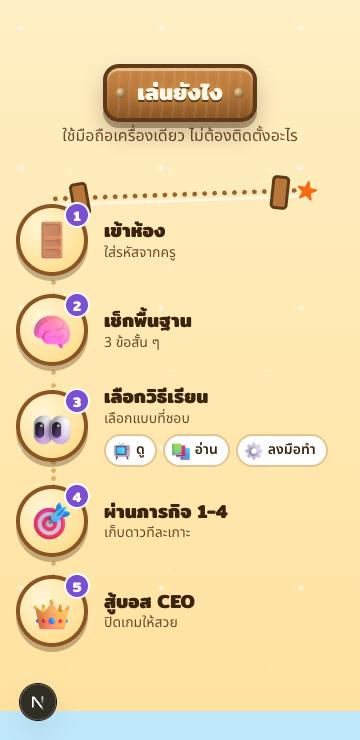
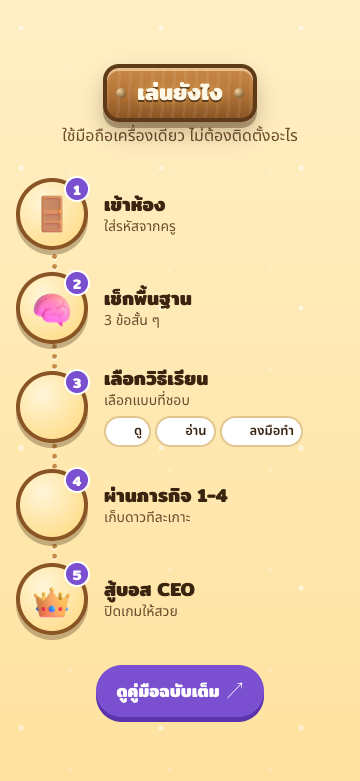
feat(landing): how-to-play path + illustrated footer

Changed region(s): [[0.0, 0.2176, 1.0, 1.0], [0.1528, 0.0622, 0.825, 0.2176]]

diff --git a/components/landing/landing.css b/components/landing/landing.css
@@ -178,17 +178,12 @@
 
 /* ---------- วิธีเล่น ---------- */
 .ld-steps { list-style: none; margin: 0; padding: 0; display: grid; gap: 18px; position: relative; }
-.ld-route-scene { height: 34px; position: relative; margin: 0 7% -8px; pointer-events: none; }
-.ld-route-bridge { position: absolute; left: 5%; right: 5%; top: 14px; height: 10px; border-top: 5px dotted #9b632d; border-bottom: 3px solid rgba(255,255,255,.55); transform: rotate(-2deg); }
-.ld-route-bridge::before, .ld-route-bridge::after { content: ''; position: absolute; top: -18px; width: 18px; height: 34px; border-radius: 5px; background: #b7773a; border: 3px solid #5e3a18; }
-.ld-route-bridge::before { left: 7%; transform: rotate(-8deg); } .ld-route-bridge::after { right: 7%; transform: rotate(8deg); }
-.ld-route-flag { position: absolute; right: 1%; top: -6px; color: #f56a12; font-size: 23px; transform: rotate(12deg); }
+.ld-steps::before { content: ''; position: absolute; z-index: 0; left: 10%; right: 10%; top: 36px; border-top: 5px dotted #c58a45; filter: drop-shadow(0 2px 0 rgba(255,255,255,.55)); }
 .ld-step { position: relative; display: flex; align-items: center; gap: 16px; }
+.ld-step-link { position: relative; z-index: 1; display: flex; flex-direction: column; align-items: center; gap: 10px; width: 100%; color: inherit; text-decoration: none; }
 .ld-step-ico { transition: transform .25s ease, filter .25s ease; }
 .ld-step:hover .ld-step-ico { transform: translateY(-5px) rotate(-4deg); filter: drop-shadow(0 8px 8px rgba(122,79,208,.25)); }
-.ld-step:not(:last-child)::after {
-  content: ""; position: absolute; left: 35px; top: 76px; bottom: -22px; border-left: 5px dotted #e0b269; z-index: 0;
-}
+.ld-step-copy { display: block; text-align: center; }
 .ld-step-ico {
   position: relative; z-index: 1; flex: none; display: grid; place-items: center; width: 72px; height: 72px; border-radius: 50%;
   background: radial-gradient(circle at 35% 30%, #fff6d8, #ffd77a); border: 4px solid var(--ld-wood-2); box-shadow: 0 5px 0 rgba(60,32,10,.3);
@@ -200,12 +195,14 @@
 }
 .ld-step h3 { font-family: var(--font-display-thai), sans-serif; font-weight: 700; font-size: 19px; line-height: 1.3; }
 .ld-step p { font-size: 14px; color: var(--ld-ink-2); line-height: 1.4; }
-.ld-chips { display: flex; flex-wrap: wrap; gap: 6px; margin-top: 6px; }
+.ld-chips { display: flex; flex-wrap: nowrap; justify-content: center; gap: 4px; margin-top: 6px; }
 .ld-chip {
-  display: inline-flex; align-items: center; gap: 4px; min-height: 28px; padding: 2px 10px 2px 6px; border-radius: 999px; white-space: nowrap;
-  font-size: 14px; font-weight: 600; background: #fff; border: 2px solid #e3c590;
+  display: inline-flex; align-items: center; gap: 3px; min-height: 28px; padding: 2px 7px 2px 5px; border-radius: 999px; white-space: nowrap;
+  font-size: 13px; font-weight: 600; background: #fff; border: 2px solid #e3c590;
 }
 .ld-chip img { width: 20px; height: 20px; }
+.ld-how-cta { display: flex; width: max-content; align-items: center; gap: 7px; margin: 30px auto 0; padding: 11px 20px; border-radius: 999px; background: var(--ld-purple); color: #fff; text-decoration: none; font-family: var(--font-display-thai), sans-serif; font-size: 17px; font-weight: 700; box-shadow: 0 5px 0 var(--ld-purple-d); transition: transform .18s ease, filter .18s ease; }
+.ld-how-cta:hover { transform: translateY(-3px); filter: brightness(1.08); }
 
 /* ---------- Phone tour ---------- */
 .ld-tour { display: grid; gap: 24px; justify-items: center; align-items: center; }
@@ -261,24 +258,19 @@
 .ld-lock img { width: 20px; height: 20px; }
 
 /* ---------- ปิดท้าย ---------- */
-.ld-final { position: relative; isolation: isolate; overflow: hidden; padding: 84px 0 40px; text-align: center; background: linear-gradient(180deg, #43b4ee 0%, #2e9cdf 62%, #1d75bd 100%); color: #fff; }
-.ld-final .ld-cloud--a { top: 8%; }
-.ld-final .ld-cloud--b { top: 28%; }
-.ld-final::after { content: ''; position: absolute; left: -5%; right: -5%; bottom: -1px; height: 80px; background: radial-gradient(80% 70px at 20% 100%, #f6e4ac 0 52%, transparent 54%), radial-gradient(80% 70px at 70% 100%, #e9c77b 0 52%, transparent 54%); z-index: -1; }
-.ld-final-islands { position: absolute; inset: auto 0 -8px; height: 112px; z-index: 0; opacity: .9; pointer-events: none; }
-.ld-final-islands span { position: absolute; bottom: 0; width: 240px; height: 72px; border-radius: 50% 50% 12% 12%; background: #398e59; box-shadow: inset 0 14px 0 #8bd27d, 0 10px 0 rgba(29,117,189,.35); }
-.ld-final-islands span::before, .ld-final-islands span::after { content: ''; position: absolute; bottom: 48px; width: 7px; height: 48px; border-radius: 8px; background: #8a5524; transform-origin: bottom; }
-.ld-final-islands span::before { left: 30%; transform: rotate(-18deg); } .ld-final-islands span::after { left: 62%; transform: rotate(18deg); }
-.ld-final-islands span:nth-child(1) { left: -7%; bottom: -42px; transform: scale(.8); }
-.ld-final-islands span:nth-child(2) { left: 50%; bottom: -70px; transform: translateX(-50%) scale(.72); }
-.ld-final-islands span:nth-child(3) { right: -7%; bottom: -42px; transform: scale(.9); }
+.ld-final { position: relative; isolation: isolate; overflow: hidden; min-height: 700px; padding: 74px 0 58px; text-align: center; background: #f8d5a0; color: #fff; }
+.ld-final-bg { position: absolute; inset: 0; z-index: -2; background: url('/landing/footer-bg.webp') center / cover no-repeat; }
+.ld-final::after { content: ''; position: absolute; inset: 0; z-index: -1; background: linear-gradient(180deg, rgba(18,53,99,.06), rgba(18,53,99,.08) 58%, rgba(73,46,27,.14)); pointer-events: none; }
 .ld-confetti { position: absolute; inset: 16% 10% auto; height: 180px; pointer-events: none; opacity: 0; }
 .ld-confetti.is-live { opacity: 1; }
 .ld-confetti i { position: absolute; left: calc(50% + (var(--i) - 7) * 4%); top: 45%; width: 9px; height: 18px; border-radius: 3px; background: hsl(calc(var(--i) * 27) 90% 60%); transform: rotate(calc(var(--i) * 31deg)); animation: ld-confetti 1.1s cubic-bezier(.2,.8,.2,1) forwards; animation-delay: calc(var(--i) * 24ms); }
 .ld-final-inner { display: flex; flex-direction: column; align-items: center; gap: 16px; }
 .ld-final-dome { width: 150px; }
-.ld-foot { position: relative; z-index: 2; margin-top: 28px; padding: 8px 14px; border-radius: 16px; background: rgba(22,102,166,.72); font-size: 14px; color: #e4f6ff; line-height: 1.6; }
+.ld-final-plaque { display: flex; flex-direction: column; align-items: center; gap: 14px; width: min(100%, 620px); padding: 25px 26px 22px; border: 5px solid #6b3d1d; border-radius: 28px; background: rgba(255,248,226,.94); box-shadow: 0 8px 0 rgba(74,40,18,.35), 0 20px 34px rgba(55,33,20,.2); color: var(--ld-ink); }
+.ld-final-plaque .ld-sign { margin-top: -48px; }
+.ld-foot { position: relative; z-index: 2; margin-top: 8px; padding: 10px 16px; border-top: 2px solid #e2bf7c; font-size: 14px; color: var(--ld-ink-2); line-height: 1.6; }
 .ld-foot-link { color: #fff; font-weight: 700; text-underline-offset: 3px; }
+.ld-final-plaque .ld-foot-link { color: var(--ld-purple-d); }
 .ld-final-inner { position: relative; z-index: 1; }
 
 /* ---------- Keyframes ---------- */
@@ -315,7 +307,6 @@
   .ld-card { min-height: 96px; padding: 14px 18px; } .ld-card h3 { font-size: 20px; } .ld-card p { font-size: 15px; }
   .ld-steps { grid-template-columns: repeat(5, 1fr); gap: 12px; }
   .ld-step { flex-direction: column; text-align: center; gap: 10px; align-items: center; }
-  .ld-step:not(:last-child)::after { left: calc(50% + 44px); right: calc(-50% + 44px); top: 34px; bottom: auto; border-left: 0; border-top: 5px dotted #e0b269; }
   .ld-chips { justify-content: center; }
   .ld-tour { grid-template-columns: 1fr 1fr; gap: 72px; justify-items: center; }
   .ld-phone-wrap { width: 300px; }
@@ -325,6 +316,19 @@
   .ld-ai::before { inset: -56px -42px; }
   .ld-final-dome { width: 200px; }
   .ld-final { padding-bottom: 72px; }
+}
+@media (max-width: 899px) {
+  .ld-steps { gap: 22px; }
+  .ld-steps::before { left: 36px; right: auto; top: 36px; bottom: 36px; border-top: 0; border-left: 5px dotted #c58a45; }
+  .ld-step-link { flex-direction: row; align-items: center; text-align: left; gap: 16px; }
+  .ld-step-copy { flex: 1; text-align: left; }
+  .ld-chips { justify-content: flex-start; }
+}
+@media (max-width: 600px) {
+  .ld-final { min-height: 760px; padding-top: 62px; }
+  .ld-final-bg { background-image: url('/landing/footer-bg-mobile.webp'); background-position: center center; }
+  .ld-final-plaque { width: calc(100% - 20px); padding: 22px 15px 18px; }
+  .ld-final-plaque .ld-sign { margin-top: -40px; padding-left: 24px; padding-right: 24px; }
 }
 @media (min-width: 900px) and (max-width: 1100px) { .ld-sign { font-size: 28px; } }
 @media (max-width: 380px) {

diff --git a/components/landing/sections.tsx b/components/landing/sections.tsx
@@ -4,7 +4,7 @@ import { motion } from 'motion/react'
 import { useEffect, useRef, useState } from 'react'
 import { Countdown, useOpenState } from './countdown'
 import { PhoneTour } from './phone-tour'
-import { Cloud, Pic } from './pic'
+import { Pic } from './pic'
 import { Reveal } from './reveal'
 
 const icon = (name: string, size = 38) => <Pic src={`/icons/3d/${name}.webp`} alt="" width={size} height={size} />
@@ -80,31 +80,33 @@ export function HowSection() {
     <section className="ld-sec ld-sec--sand" id="how" aria-label="นักเรียนเล่นยังไง">
       <div className="ld-wrap">
         <Head title="เล่นยังไง" sub="ใช้มือถือเครื่องเดียว ไม่ต้องติดตั้งอะไร" />
-        <div className="ld-route-scene" aria-hidden="true"><span className="ld-route-bridge" /><span className="ld-route-flag">★</span></div>
         <ol className="ld-steps">
           {FLOW.map((s, i) => (
             <Reveal as="li" key={s.title} delay={i * 0.1} className="ld-step">
-              <span className="ld-step-ico">
-                {icon(s.icon, 42)}
-                <span className="ld-step-no">{i + 1}</span>
-              </span>
-              <div>
-                <h3>{s.title}</h3>
-                <p>{s.note}</p>
-                {'chips' in s && (
-                  <div className="ld-chips">
-                    {s.chips.map(([ic, label]) => (
-                      <span className="ld-chip" key={label}>
-                        {icon(ic, 20)}
-                        {label}
-                      </span>
-                    ))}
-                  </div>
-                )}
-              </div>
+              <a className="ld-step-link" href={`/landing/manual#step-${i + 1}`} aria-label={`เปิดคู่มือ: ${s.title}`}>
+                <span className="ld-step-ico">
+                  {icon(s.icon, 42)}
+                  <span className="ld-step-no">{i + 1}</span>
+                </span>
+                <span className="ld-step-copy">
+                  <h3>{s.title}</h3>
+                  <p>{s.note}</p>
+                  {'chips' in s && (
+                    <span className="ld-chips">
+                      {s.chips.map(([ic, label]) => (
+                        <span className="ld-chip" key={label}>
+                          {icon(ic, 20)}
+                          {label}
+                        </span>
+                      ))}
+                    </span>
+                  )}
+                </span>
+              </a>
             </Reveal>
           ))}
         </ol>
+        <a className="ld-how-cta" href="/landing/manual">ดูคู่มือฉบับเต็ม <span aria-hidden>↗</span></a>
       </div>
     </section>
   )
@@ -249,32 +251,32 @@ export function FinalSection({ openAt, openLabel }: { openAt: string | null; ope
   const confetti = Array.from({ length: 14 }, (_, i) => i)
   return (
     <footer className="ld-final" ref={ref}>
-      <Cloud className="ld-cloud ld-cloud--a" />
-      <Cloud className="ld-cloud ld-cloud--b" />
-      <div className="ld-final-islands" aria-hidden><span /><span /><span /></div>
+      <div className="ld-final-bg" aria-hidden />
       <div className={`ld-confetti ${seen ? 'is-live' : ''}`} aria-hidden>{confetti.map((i) => <i key={i} style={{ ['--i' as string]: i }} />)}</div>
       <div className="ld-wrap ld-final-inner">
         <motion.div animate={seen ? { y: [0, -24, 0], rotate: [0, -3, 3, 0] } : {}} transition={{ duration: 1.1, type: 'tween', ease: [0.22, 1, 0.36, 1] }}>
           <Pic className="ld-final-dome ld-dome" src="/dome/mascot/dome-celebrate.webp" alt="" width={499} height={532} />
         </motion.div>
-        <h2 className="ld-sign">พร้อมออกผจญภัย</h2>
-        <div className="ld-badge">
-          <span className="ld-badge-dot" aria-hidden />
-          {open ? 'เปิดให้เล่นแล้ว!' : `เปิดให้เล่น ${openLabel}`}
+        <div className="ld-final-plaque">
+          <h2 className="ld-sign">พร้อมออกผจญภัย</h2>
+          <div className="ld-badge">
+            <span className="ld-badge-dot" aria-hidden />
+            {open ? 'เปิดให้เล่นแล้ว!' : `เปิดให้เล่น ${openLabel}`}
+          </div>
+          <Countdown openAt={openAt} />
+          {open && (
+            <motion.a className="ld-btn" href="/join" whileTap={{ scale: 0.94 }}>
+              เข้าเล่นเลย ▶
+            </motion.a>
+          )}
+          <p className="ld-foot">
+            CEO Domain Quest · สื่อการสอนแบบเกม
+            <br />
+            วิชา 21910-2002 อินเทอร์เน็ตในงานธุรกิจดิจิทัล
+            <br />
+            <a href="/landing/manual" className="ld-foot-link">เปิดคู่มือการใช้งาน</a>
+          </p>
         </div>
-        <Countdown openAt={openAt} />
-        {open && (
-          <motion.a className="ld-btn" href="/join" whileTap={{ scale: 0.94 }}>
-            เข้าเล่นเลย ▶
-          </motion.a>
-        )}
-        <p className="ld-foot">
-          CEO Domain Quest · สื่อการสอนแบบเกม
-          <br />
-          วิชา 21910-2002 อินเทอร์เน็ตในงานธุรกิจดิจิทัล
-          <br />
-          <a href="/landing/manual" className="ld-foot-link">เปิดคู่มือการใช้งาน</a>
-        </p>
       </div>
     </footer>
   )
